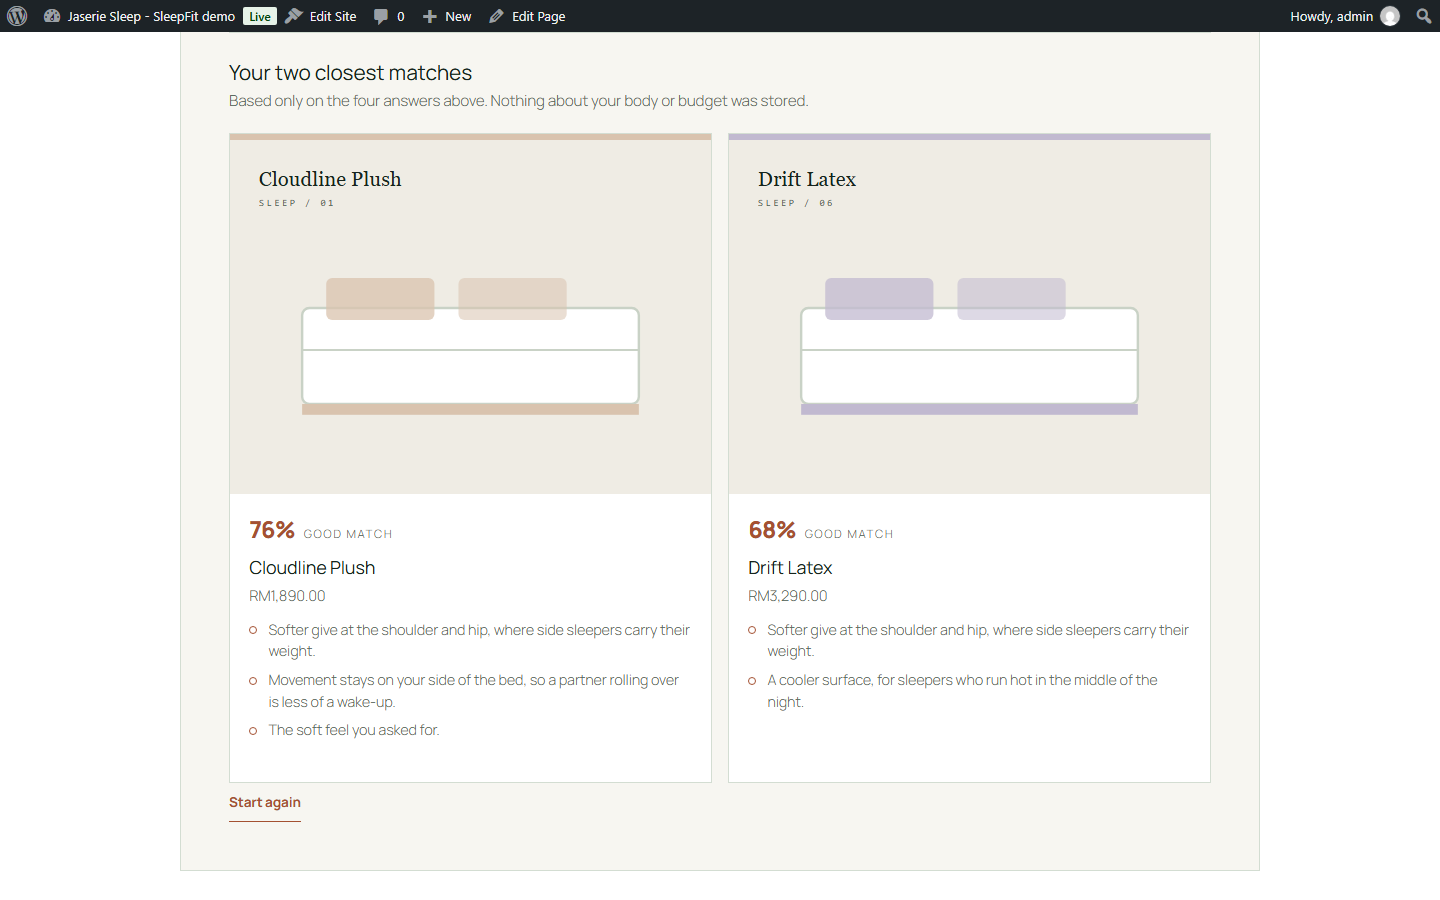
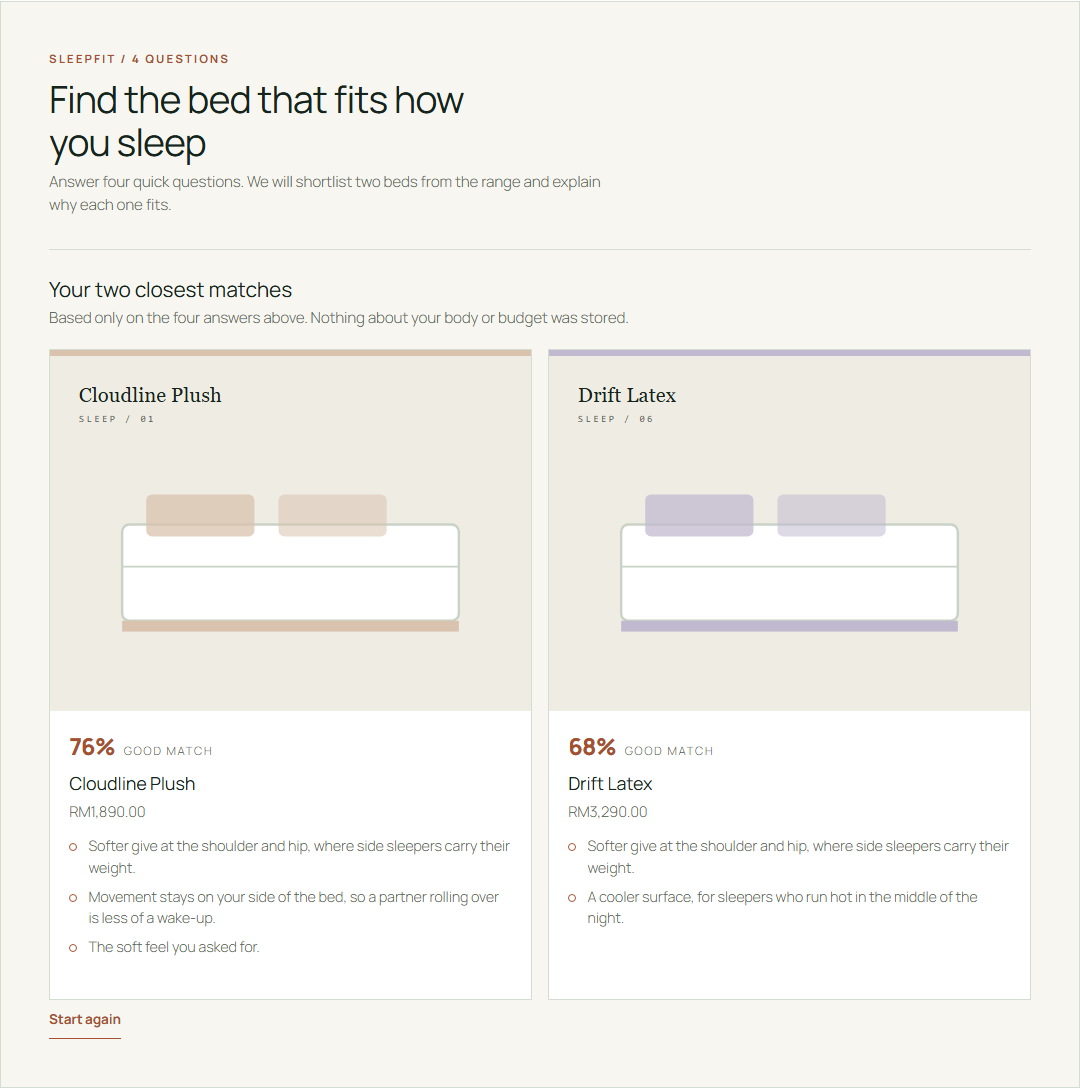
chore: neutral demo store name, fix question card layout

diff --git a/assets/css/sleepfit.css b/assets/css/sleepfit.css
@@ -97,8 +97,7 @@
 
 .sleepfit__legend {
 	display: block;
-	width: 100%;
-	padding: 0;
+	margin: 0 0 0.25rem;
 	font-size: 1.15rem;
 	font-weight: 700;
 	line-height: 1.3;

diff --git a/includes/class-shortcode.php b/includes/class-shortcode.php
@@ -83,11 +83,11 @@ final class Shortcode {
 				<ol class="sleepfit__steps">
 					<?php foreach ( $questions as $index => $question ) : ?>
 						<li class="sleepfit__step" data-sleepfit-step>
-							<fieldset class="sleepfit__fieldset">
-								<legend class="sleepfit__legend">
+							<fieldset class="sleepfit__fieldset" aria-labelledby="sleepfit-q-<?php echo esc_attr( $question['id'] ); ?>">
+								<div class="sleepfit__legend" id="sleepfit-q-<?php echo esc_attr( $question['id'] ); ?>">
 									<span class="sleepfit__count"><?php echo esc_html( sprintf( '%1$d / %2$d', $index + 1, $total ) ); ?></span>
 									<?php echo esc_html( $question['legend'] ); ?>
-								</legend>
+								</div>
 								<p class="sleepfit__help"><?php echo esc_html( $question['help'] ); ?></p>
 								<div class="sleepfit__options">
 									<?php foreach ( $question['options'] as $value => $label ) : ?>
